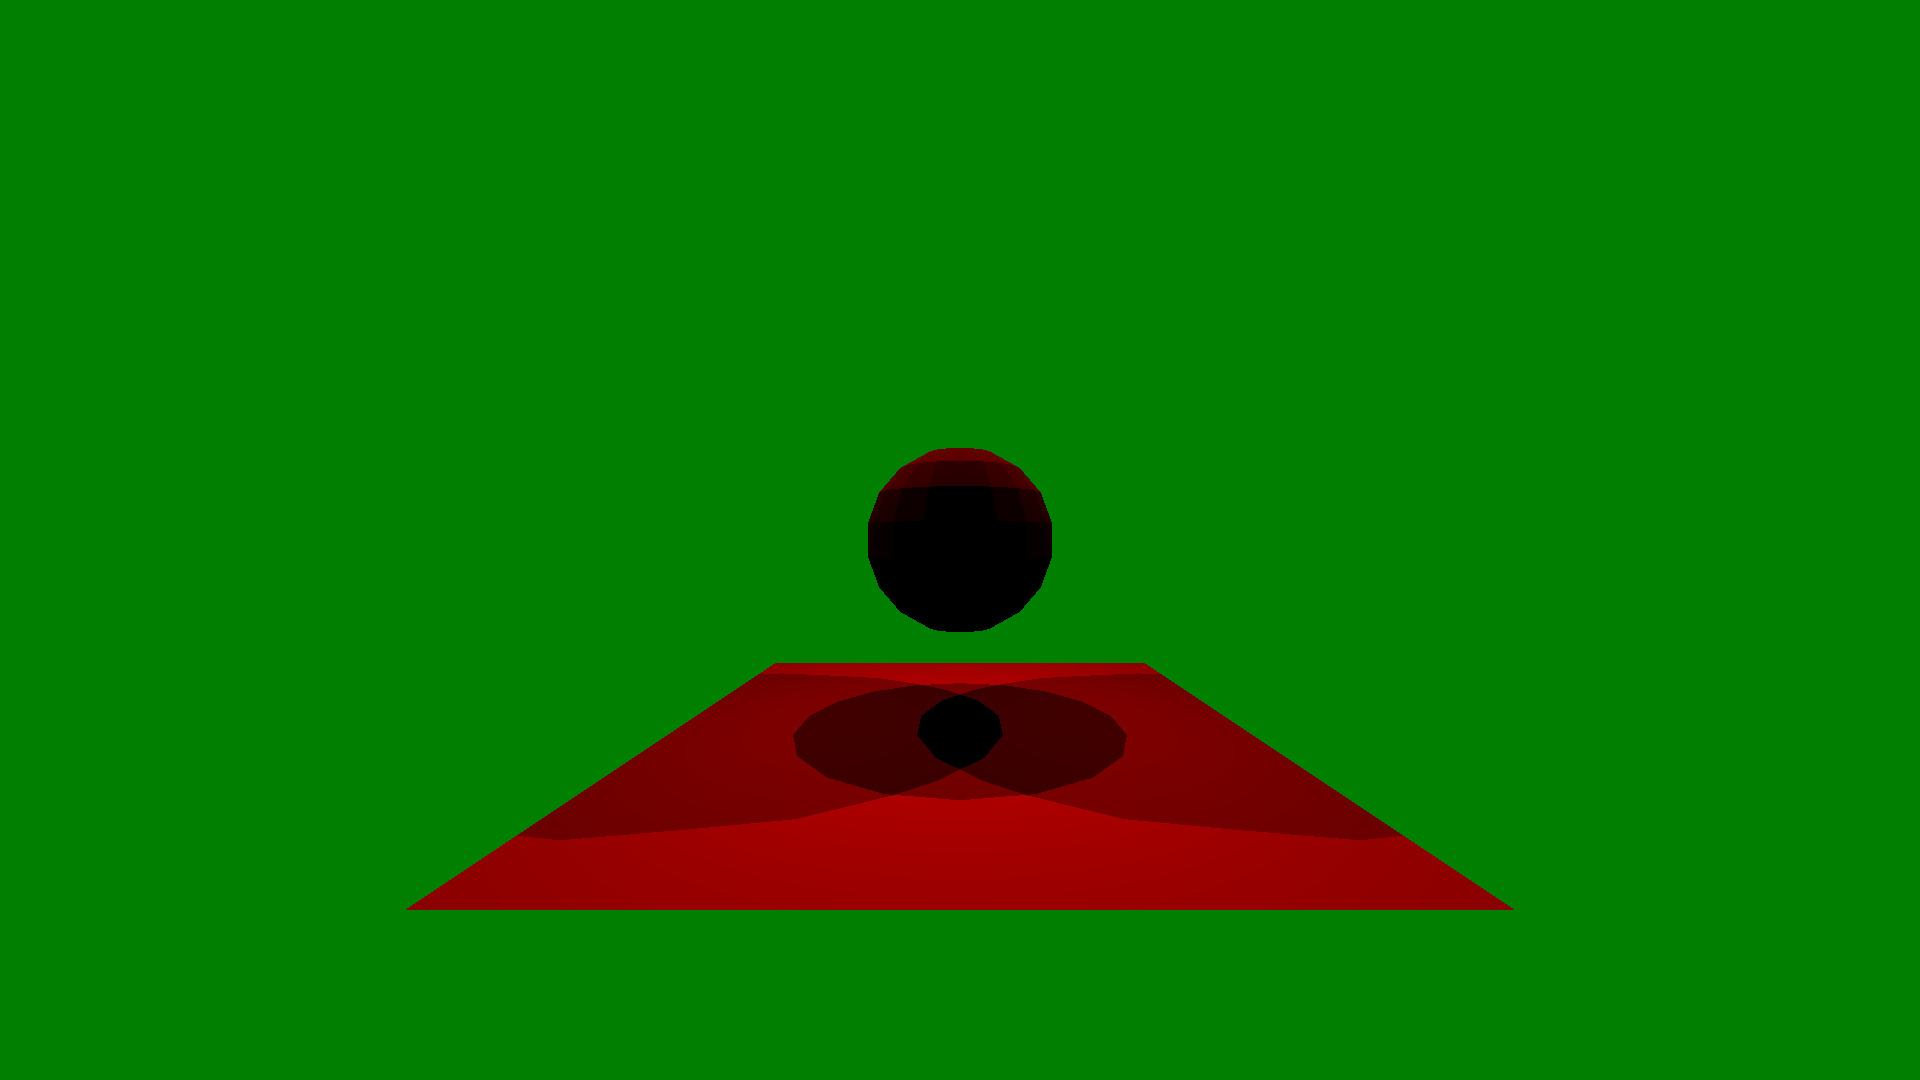
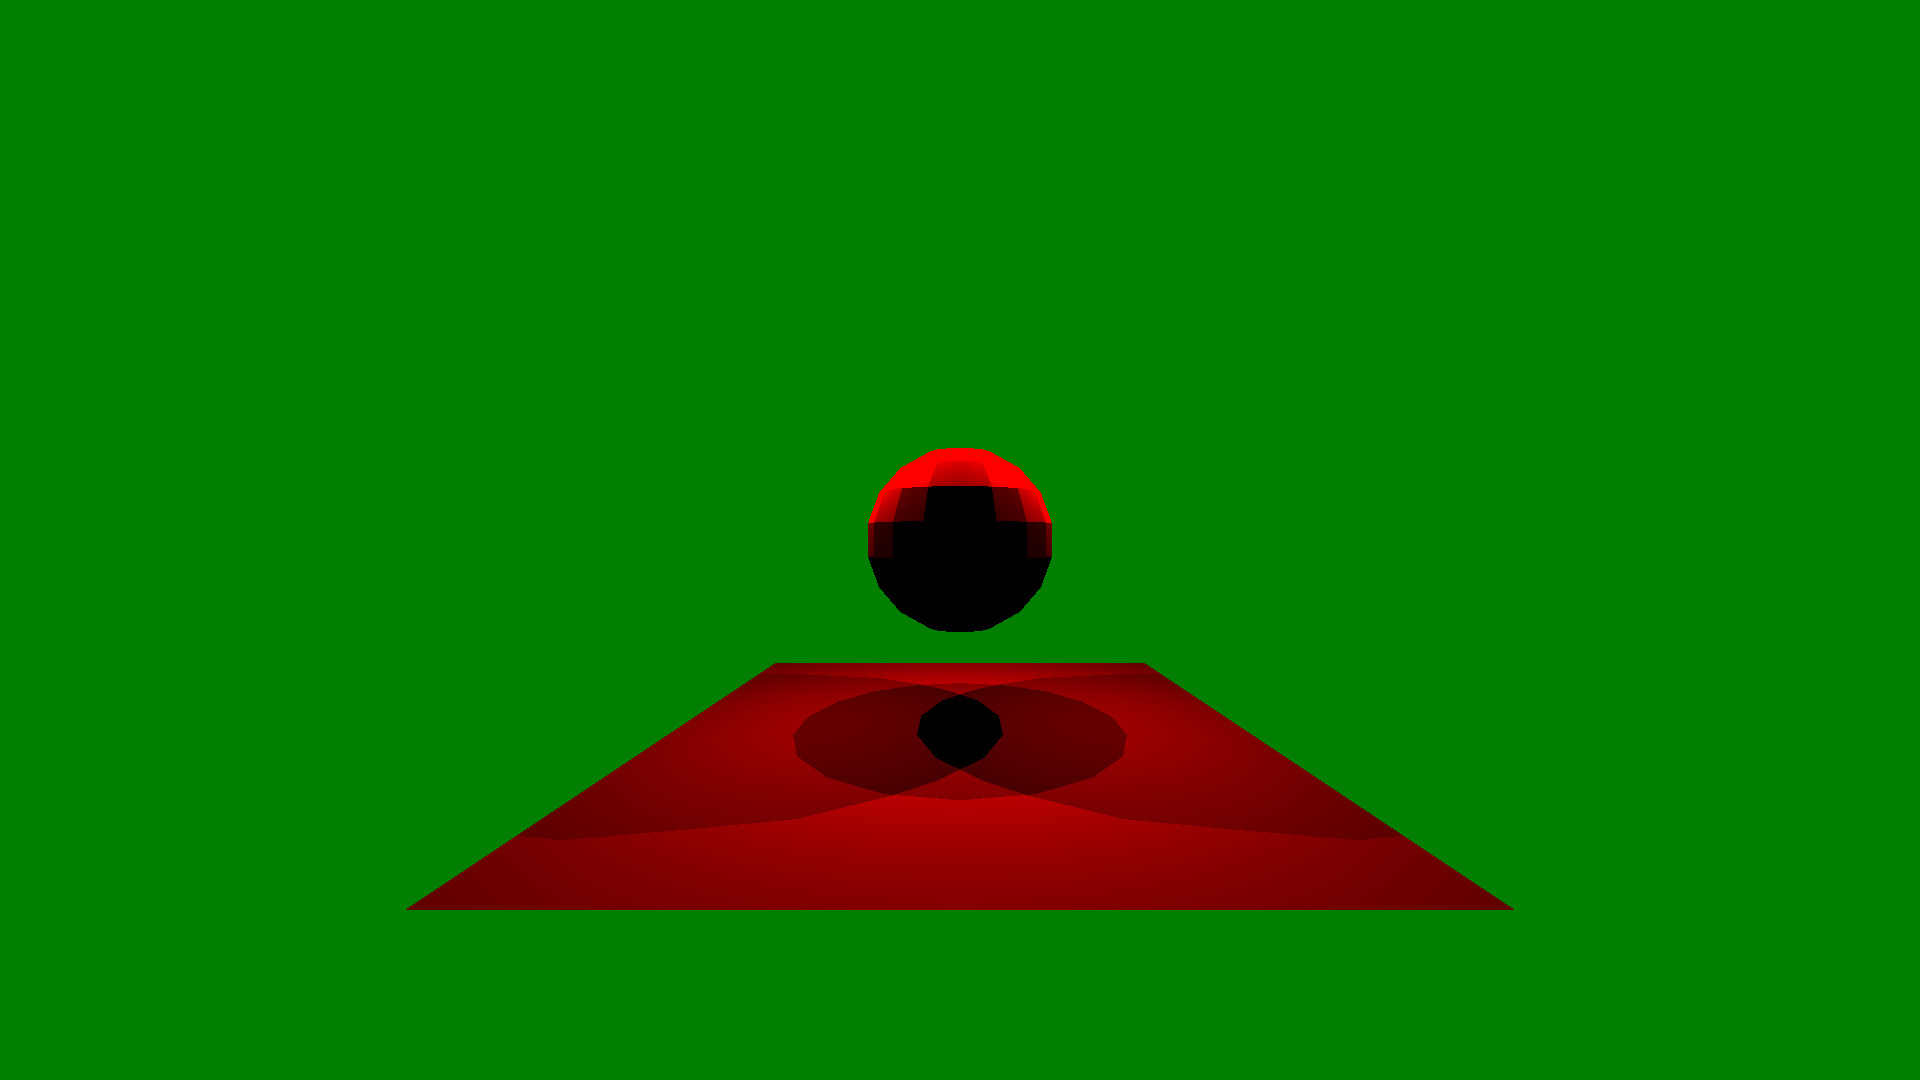
HW8 fix

diff --git a/SourceCode/SimpleRayTracer/main.cpp b/SourceCode/SimpleRayTracer/main.cpp
@@ -17,7 +17,7 @@ void Task8()
 {
 
 	Scene scene0 = Scene::FromFile(SCENE_PATH + "\\Task8\\scene0.crtscene");
-	Material mat0{ Vector3(0.04,0,0) };
+	Material mat0{ Vector3(0.5,0,0) };
 	scene0.sceneSettings.objects[0].material = mat0;
 	scene0.sceneSettings.objects[1].material = mat0;
 	RayTracer renderer0(scene0);
@@ -25,7 +25,7 @@ void Task8()
 	std::cout << "Scene0 rendered" << std::endl;
 
 	Scene scene1 = Scene::FromFile(SCENE_PATH + "\\Task8\\scene1.crtscene");
-	Material mat1{ Vector3(0.04,0,0) };
+	Material mat1{ Vector3(0.5,0,0) };
 	scene1.sceneSettings.objects[0].material = mat1;
 	scene1.sceneSettings.objects[1].material = mat1;
 	RayTracer renderer1(scene1);
@@ -33,7 +33,7 @@ void Task8()
 	std::cout << "Scene1 rendered" << std::endl;
 
 	Scene scene2 = Scene::FromFile(SCENE_PATH + "\\Task8\\scene2.crtscene");
-	Material mat2{ Vector3(0.02,0,0) };
+	Material mat2{ Vector3(0.5,0,0) };
 	scene2.sceneSettings.objects[0].material = mat2;
 	scene2.sceneSettings.objects[1].material = mat2;
 	RayTracer renderer2(scene2);
@@ -41,7 +41,7 @@ void Task8()
 	std::cout << "Scene2 rendered" << std::endl;
 
 	Scene scene3 = Scene::FromFile(SCENE_PATH + "\\Task8\\scene3.crtscene");
-	Material mat3{ Vector3(0.0002,0,0) };
+	Material mat3{ Vector3(0.5,0,0) };
 	scene3.sceneSettings.objects[0].material = mat3;
 	scene3.sceneSettings.objects[1].material = mat3;
 	RayTracer renderer3(scene3);

diff --git a/SourceCode/SimpleRayTracer/Raytracer.h b/SourceCode/SimpleRayTracer/Raytracer.h
@@ -59,16 +59,17 @@ public:
 				Vector3 intersectionPoint = intersection.value().t * ray.dir + ray.origin;
 				float reflectedIntensity = 0.f;
 				Vector3 in;
-				for (int i = 0; i < scene.sceneSettings.lights.size(); i++)
+				for (Light light : scene.sceneSettings.lights)
 				{
-					Light light = scene.sceneSettings.lights[i];
-					in = (light.position - intersectionPoint).norm();
+					in = (light.position - intersectionPoint);
+					float sphereArea = 4 * in.length() * in.length() * PI;
+					in = in.norm();
 					Ray shadowRay(intersectionPoint + scene.sceneSettings.EPSILON*in, in);
 					auto shadow = IntersectRay(shadowRay, scene.sceneSettings.objects);
 					if(!shadow)
-						reflectedIntensity = reflectedIntensity + light.intensity  * std::max(0.0f, Dot(in, intersection.value().normal));
+						reflectedIntensity = reflectedIntensity + light.intensity/sphereArea * std::max(0.0f, Dot(in, intersection.value().normal));
 				}
-				Vector3 finalColor = 255*Min(Vector3(1.f,1.f,1.f), 1/PI * intersection.value().material.albedo * reflectedIntensity);
+				Vector3 finalColor = 255*Min(Vector3(1.f,1.f,1.f),  intersection.value().material.albedo * reflectedIntensity);
 				scene.image.setPixel(x, y, Color((int)finalColor.x,(int)finalColor.y,(int)finalColor.z));
 			}
 			
